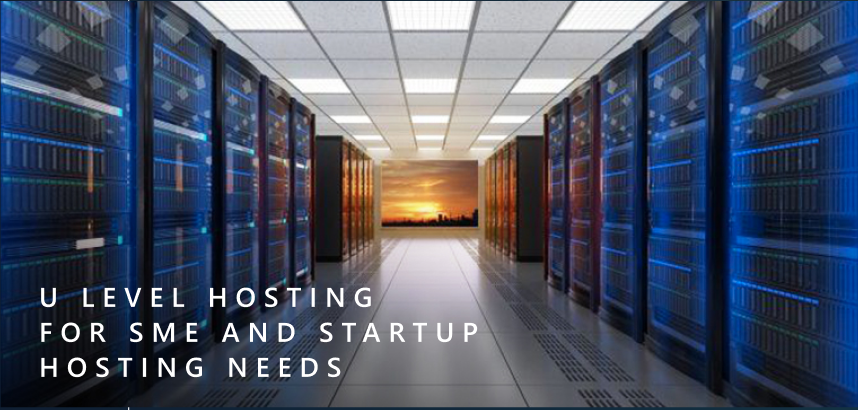
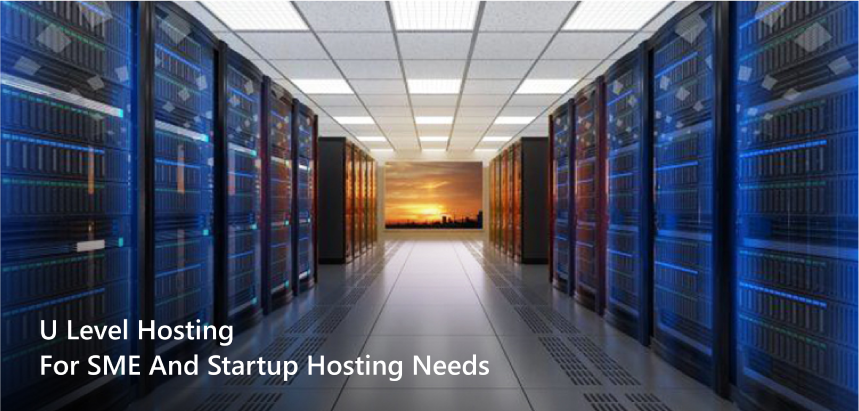
image and text updates

diff --git a/src/pages/services/index.tsx b/src/pages/services/index.tsx
@@ -207,7 +207,7 @@ export default function Index() {
                         </div>
                         <div className="row">
                             <div className="row-3 description">
-                                <img src="images/logo-white.svg" alt="" className="title-logo" />
+                                <img /*src="images/logo-white.svg" alt="" className="title-logo" */ />
                                 <h2>Managed</h2>
                                 <h1>Services</h1>
                             </div>
@@ -269,7 +269,7 @@ export default function Index() {
           </div>
         </div> */}
                 </div>
-                <div className="container">
+                <div id="Deliverables" className="container">
                     <div className="deliverables">
                         <BackTitle title="Deliverables" size="28" />
                         <div className="card-section">
@@ -617,7 +617,7 @@ export default function Index() {
                     width: 1616px;
                     height: 122px;
                     left: 131px;
-                    top: 585px;
+                    top: 530px;
                     font-family: Segoe UI;
                     font-style: normal;
                     font-weight: bold;
@@ -630,12 +630,11 @@ export default function Index() {
                     width: 1616px;
                     height: 345px;
                     left: 110px;
-                    top: 333px;
-
+                    top: 290px;
                     font-family: "SegoeUI";
                     font-style: normal;
                     font-weight: bold;
-                    font-size: 340px;
+                    font-size: 300px;
                     line-height: 452px;
 
                     color: #ffffff;
@@ -650,8 +649,8 @@ export default function Index() {
                     font-family: "SegoeUI";
                     font-style: normal;
                     font-weight: 350;
-                    font-size: 18px;
-                    line-height: 24px;
+                    font-size: 22px;
+                    line-height: 28px;
                     margin-top: 64px;
                     margin-left: 200px;
                     color: #ffffff;
@@ -1023,6 +1022,7 @@ export default function Index() {
                 .grid-4 .startup-message {
                     width: 1049px;
                     margin-left: 280px;
+                    margin-bottom: 300px;
                     font-style: normal;
                     font-weight: 350;
                     font-size: 18px;

diff --git a/src/pages/colocation/index.tsx b/src/pages/colocation/index.tsx
@@ -48,14 +48,14 @@ export default function Index() {
                         </div>
                         <div className="grid-item3">
                             <div className="grid-text">
-                                Dedicated cages with biometric access control
-                                for large enterprises specially for BFIS
+                                Dedicated Cages With Biometric Access Control
+                                For Large Enterprises Specially For BFIS
                             </div>
                         </div>
                         <div className="grid-item4">
                             <div className="grid-text">
-                                Individual racks with biometric or lockable
-                                doors
+                                Individual Racks With Biometric or Lockable
+                                Doors
                             </div>
                         </div>
                         <div className="grid-item5">
@@ -131,7 +131,7 @@ export default function Index() {
                 .quote .text {
                     font-style: normal;
                     font-weight: normal;
-                    font-size: 24px;
+                    font-size: 26px;
                     line-height: 32px;
                     text-align: center;
                     color: white;
@@ -697,10 +697,8 @@ export default function Index() {
                 .service-grid-container .grid-text {
                     font-style: normal;
                     font-weight: 600;
-                    font-size: 24px;
+                    font-size: 29px;
                     line-height: 127.69%;
-                    letter-spacing: 0.29em;
-                    text-transform: uppercase;
                     color: #ffffff;
                 }
                 .service-grid-container .grid-image {

diff --git a/src/components/Footer.tsx b/src/components/Footer.tsx
@@ -32,10 +32,8 @@ export default function Footer() {
                                 <a href="/services">Enterprise</a>
                                 <a href="/services#start-up">Start Ups</a>
                                 {/* <a href="/services#">More Services</a> */}
-                                <a href="/services">
-                                    OrionStellar Data
-                                    <br />
-                                    Center Key Highlights
+                                <a href="/services#Deliverables">
+                                    Deliverables
                                 </a>
                             </div>
                         </div>
@@ -85,7 +83,7 @@ export default function Footer() {
                     width: 100%;
                 }
                 .footer {
-                    padding: 64px 64px 0 64px;
+                    padding: 4px 64px 0 64px;
                     margin: 72px 72px 0 72px;
                     background: linear-gradient(176.64deg, #ffffff00 -71.48%, rgba(255, 255, 255, 0.1) 51.74%);
                     mix-blend-mode: normal;

diff --git a/src/pages/about-us/index.tsx b/src/pages/about-us/index.tsx
@@ -823,7 +823,6 @@ export default function Index() {
                     background: #000000;
                 }
                 .top-image {
-                    background: #070707;
                     filter: blur(100px);
                     width: 571px;
                     position: relative;
@@ -833,13 +832,15 @@ export default function Index() {
                 .top-text {
                     width: 571px;
                     position: relative;
-                    top: -20vh;
+                    bottom: 15vh;
                     right: -32vw;
                     font-style: normal;
                     font-weight: normal;
                     font-size: 24px;
                     line-height: 32px;
                     color: #ffffff;
+                    background-color: #000;
+                    padding: 30px;
                 }
                 .learn-back {
                     width: 100%;

diff --git a/src/pages/value-added-services/index.tsx b/src/pages/value-added-services/index.tsx
@@ -24,8 +24,7 @@ export default function Index() {
                     <NavBar />
                 </div>
                 <div className="header">
-                    <h3>Managed</h3>
-                    <h1>valued added Services</h1>
+                    <h1>Managed value added Services</h1>
                     <h2>for Enterprises</h2>
                 </div>
                 <div className="half-grid">
@@ -78,7 +77,7 @@ export default function Index() {
                         <img src="/images/mvas/1.png" alt="" />
                         <div className="btn">
                             <CircleButton
-                                title="Back Up"
+                                title="Back Up A"
                                 dark={true}
                                 size="148px"
                             />
